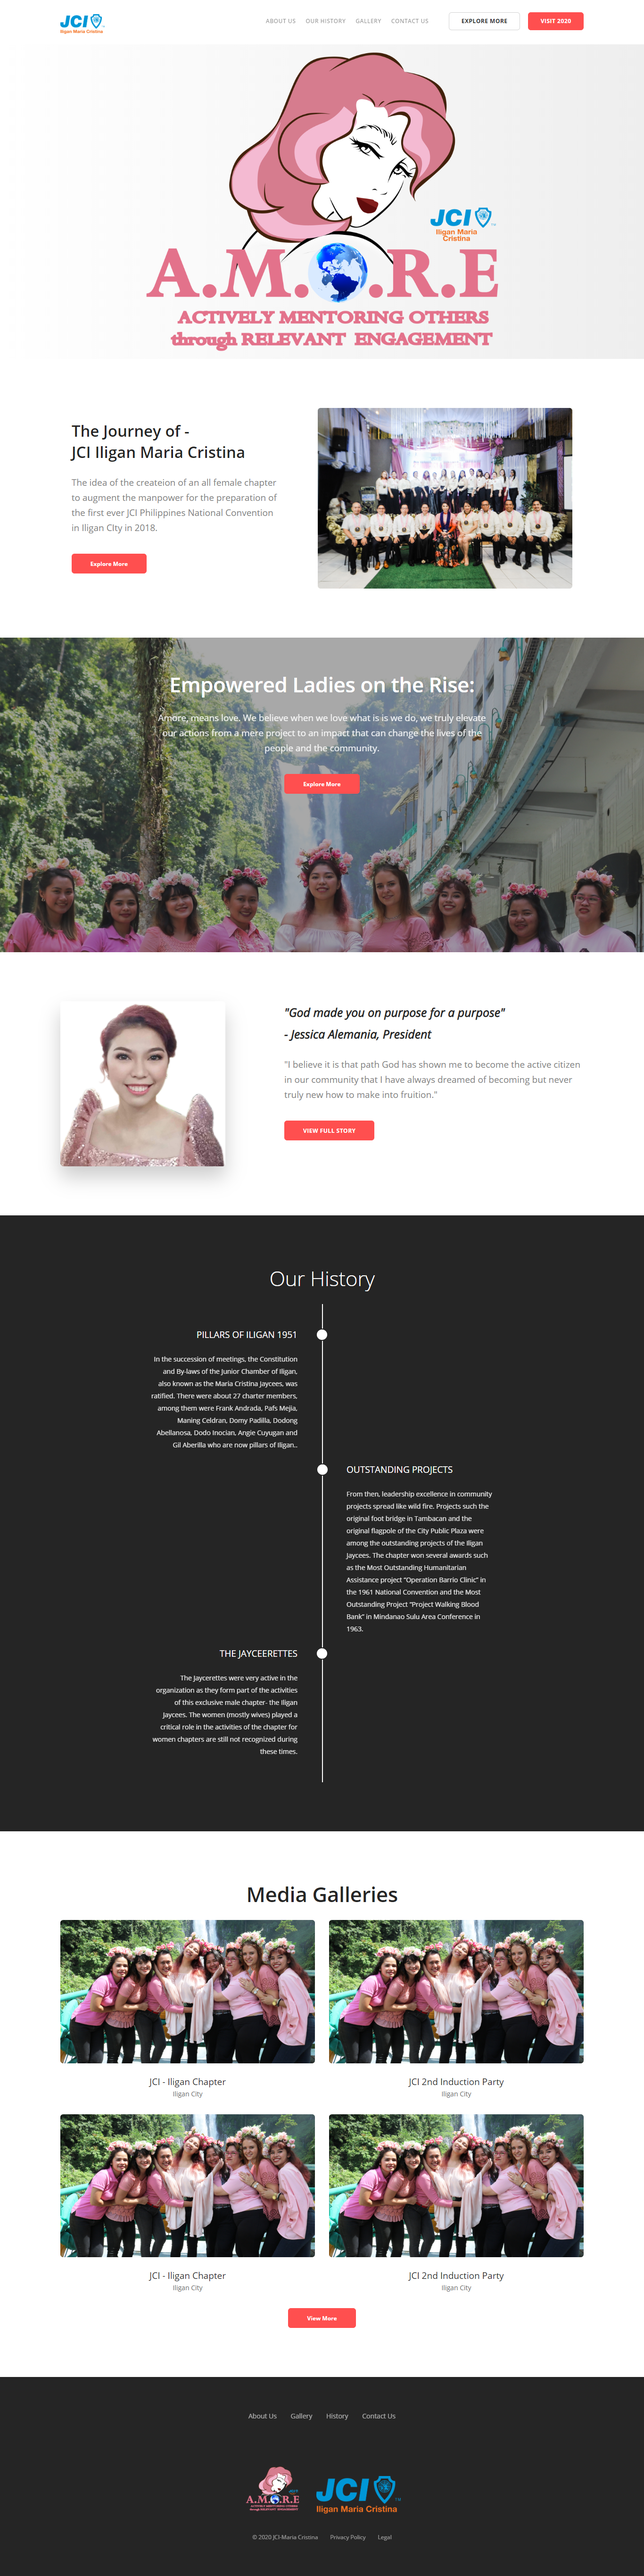
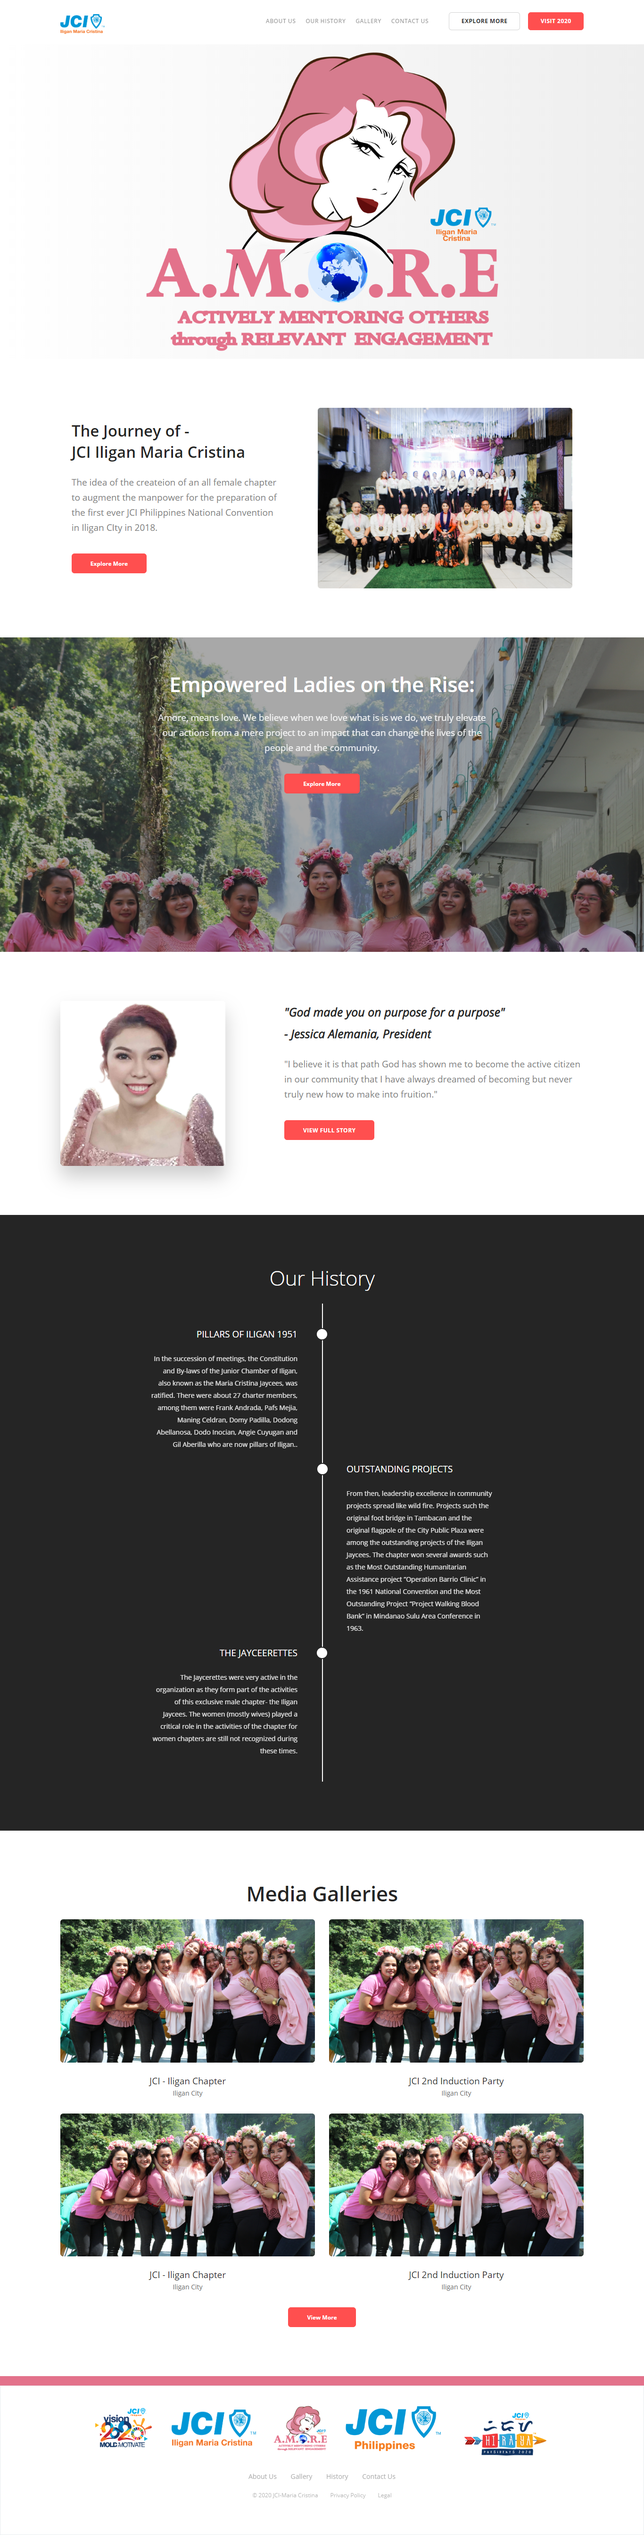
jci3 and update footer

diff --git a/jc3.html b/jc3.html
@@ -1,0 +1,14 @@
+<!DOCTYPE html>
+<html>
+<head>
+	<title>JCI 3</title>
+	<style type="text/css">
+		html,body{
+			margin: 0 !important;
+		}
+	</style>
+</head>
+<body>
+<img src="jci3.png">
+</body>
+</html>
